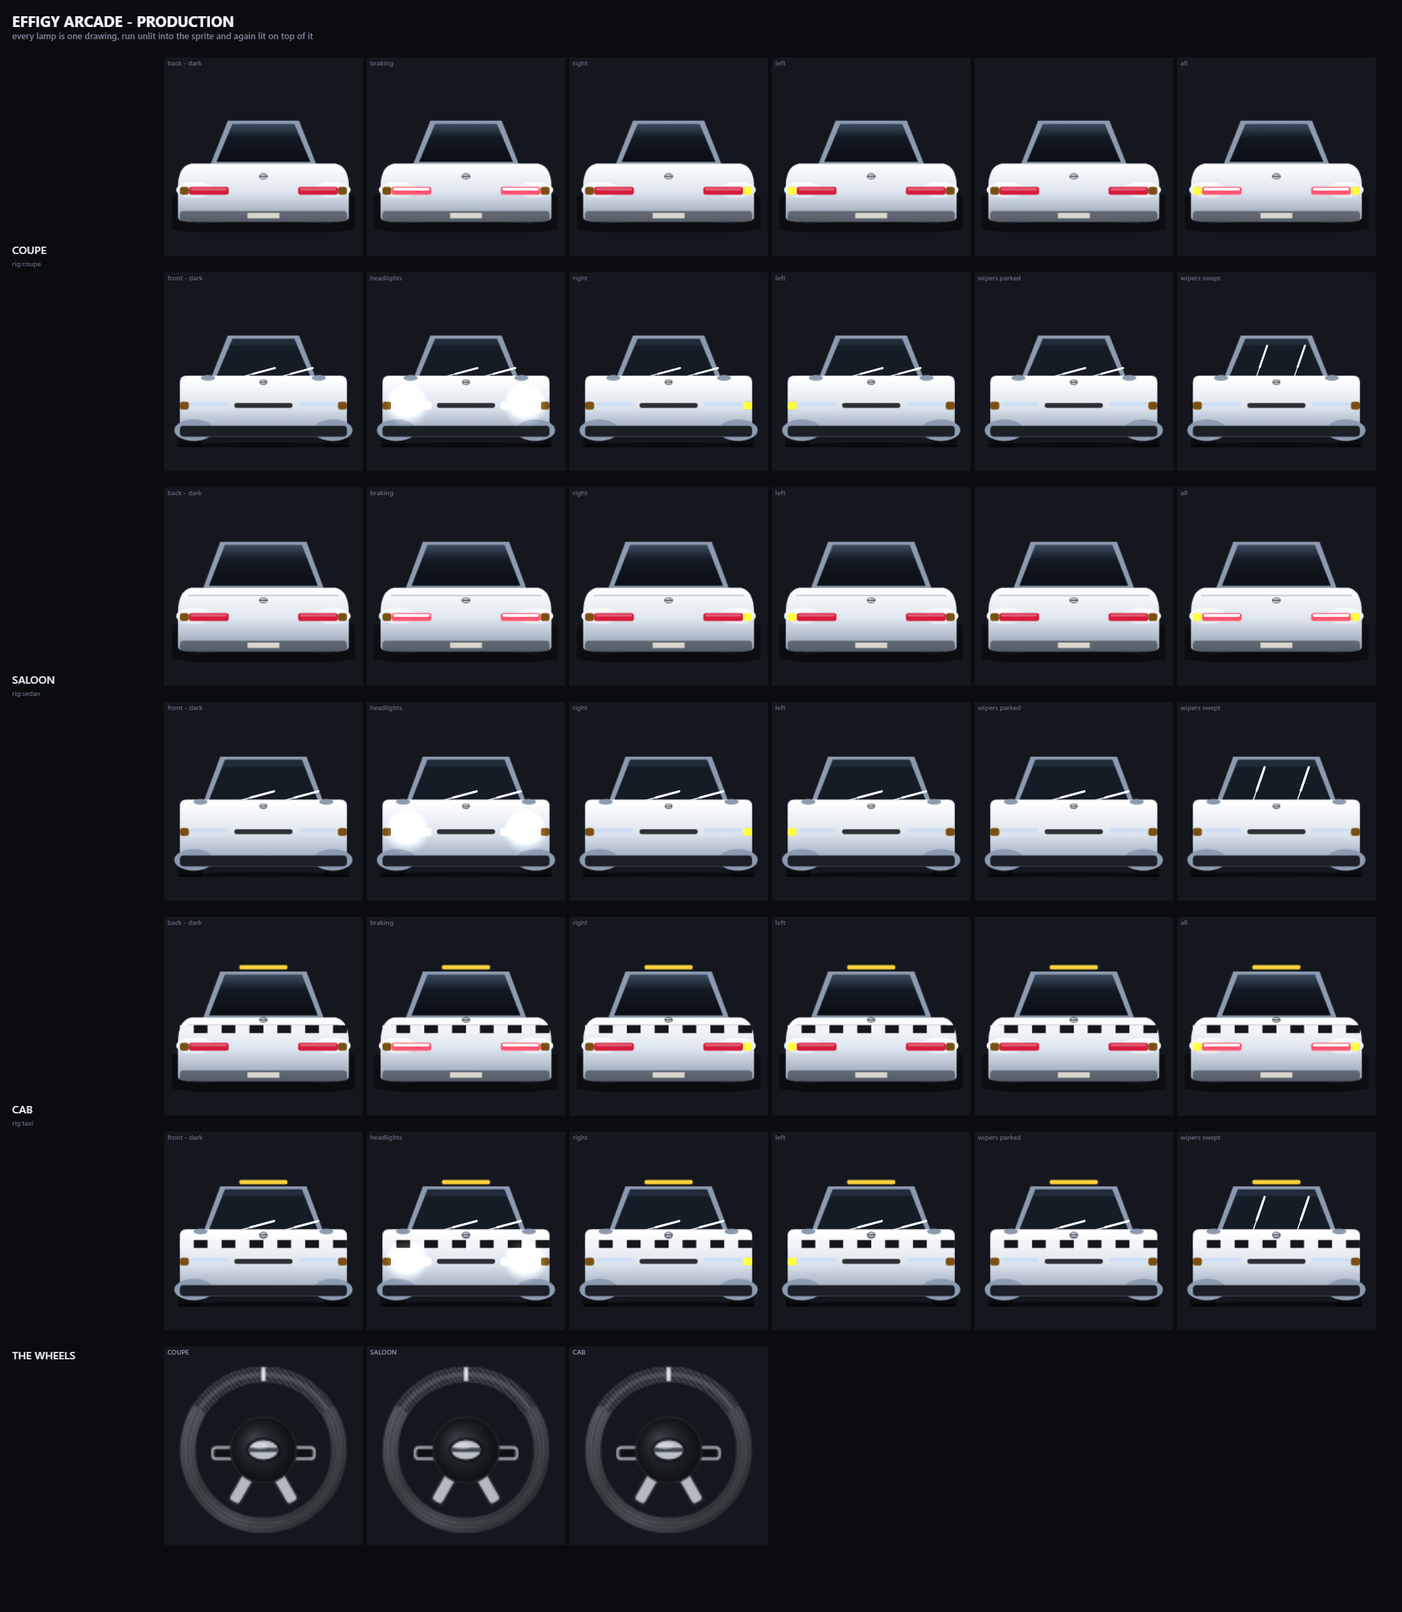
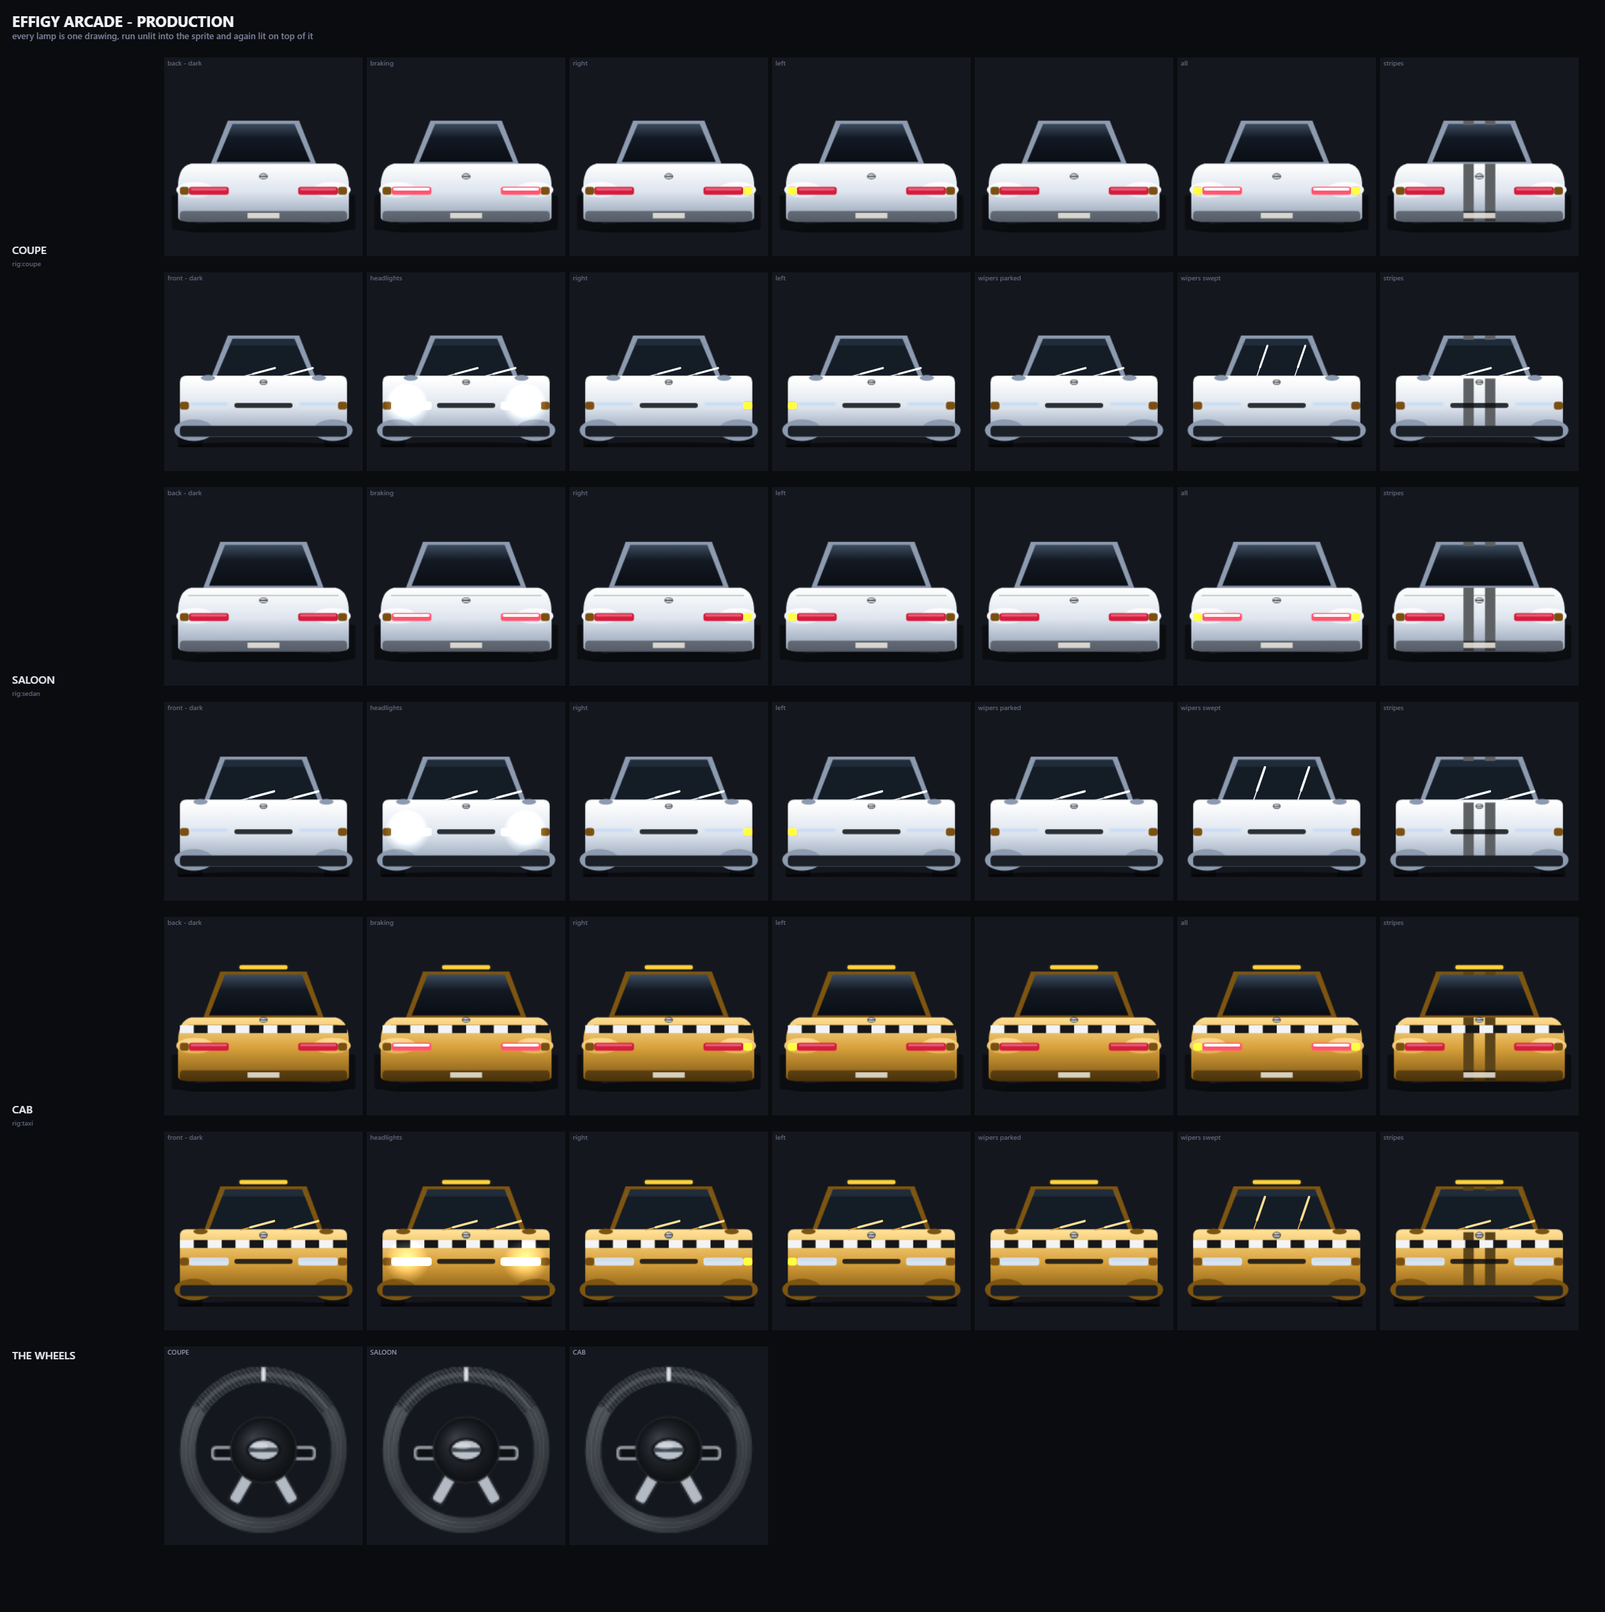
feat: the forced liveries, and a striped frame (RLG-053, v0.9.30)
The fleet sheet built every body in WHITE. That is right for the ten cars that
come in a dozen colours and wrong for the three that do not. The cab came out
white - and a cab is yellow, which is the whole of how a person recognises one -
and both patrol cars came out white when the force runs a black-and-white and a
white-on-black.

`API.fleet` names the paint each body is allowed to wear now, which is the same
restriction `paintChoices()` puts on the garage. A body with two liveries
produces two rows, because a reader groups by `sig` and would otherwise keep the
first and drop the second. The force takes `COP_PAINT`: those are the two paints
an on-duty cruiser is actually built with. Everything else stays white, by the
owner's instruction - a sheet in a dozen colours tells a reader about paint
rather than about lamps.

That split `name` from `key`. The name is what a reader prints, CRUISER . BLACK;
the key is the body it was built from, and it is what the class table and the
steering wheel are looked up with.

Every row also gains a STRIPES frame. Stripes are paint rather than a body, so
any car can wear them except one already wearing a livery of its own - the
formula car and both cruisers, whose cells are empty. `stripesAllowed()` could
not answer this: it reads `optBody`, so it cannot speak for a car it is not
looking at.

Verified: smoke 6/6, lamp-test clean, `pack.sh --check` clean, and the five class
[…]

diff --git a/road.js b/road.js
@@ -80,7 +80,7 @@ const PLAYER_Z = CAM_H*CAM_D;
    worker serves scripts network-first with a cache fallback, so a device can end
    up with a fresh shell beside a cached engine, and the tag says MIXED when it
    does. Bumped with `Arcade.version`, in the same commit, every time. */
-window.ROAD_BUILD = '0.9.29';
+window.ROAD_BUILD = '0.9.30';
 
 const LANE_X = [-0.75,-0.25,0.25,0.75];
 /* ---- ONE LANE, and the unit every lateral move is written in ---------------
@@ -11839,27 +11839,57 @@ requestAnimationFrame(frameLoop);
                   taxi:'production', tuner:'sport', muscle:'sport',
                   PICKUP:'utility', VAN:'utility', LORRY:'utility',
                   pickup:'utility', van:'utility', truck:'utility' };
-    const add = (name, sig, rear, front) =>
-      out.push({ name:name, sig:sig, cls:CLS[name] || 'production', spr:rear, front:front });
+    /* `key` is the body this row was built from, and `name` is what a reader
+       prints. They part company where one body has two liveries: the name says
+       CRUISER . BLACK and the key is still CRUISER, which is what the class
+       table and the steering wheel are looked up with. */
+    const add = (name, sig, rear, front, key, rearS, frontS) =>
+      out.push({ name:name, key:key || name, sig:sig, cls:CLS[key || name] || 'production',
+                 spr:rear, front:front, sprS:rearS || null, frontS:frontS || null });
+    /* ---- A CAR IS DRAWN IN THE PAINT IT IS ALLOWED TO WEAR ----------------
+       Owner, 2026-08-29. Every body on this sheet was built in WHITE, which is
+       correct for the ten cars that come in a dozen colours and wrong for the
+       three that do not. The cab came out white - and a cab is yellow, which is
+       the whole of how you recognise one - and both patrol cars came out white
+       when the force runs a black-and-white and a white-on-black.
+
+       These are the same restrictions `paintChoices()` puts on the garage, read
+       from the one place they are decided rather than copied. A body with more
+       than one entry here gets ONE ROW PER LIVERY, because two liveries of a
+       patrol car is what the owner asked to see and a reader grouping by `sig`
+       would otherwise keep the first and drop the rest.
+
+       The force wears COP_PAINT rather than the garage palette: those are the
+       two paints an on-duty cruiser is actually built with, and its white is a
+       little cooler than the garage's.
+       ------------------------------------------------------------------- */
+    const LIVERY = { CAB:[['GOLD', PAINT.GOLD]],
+                     CRUISER:[['WHITE', COP_PAINT.WHITE], ['BLACK', COP_PAINT.BLACK]],
+                     SUPERCRUISER:[['WHITE', COP_PAINT.WHITE], ['BLACK', COP_PAINT.BLACK]] };
     for(const k in BODY){
       const rs = BODY[k];
+      const liv = LIVERY[k] || [['WHITE', PAINT.WHITE]];
+      for(let li = 0; li < liv.length; li++){
+        const pKey = liv[li][0], pCol = liv[li][1];
       /* the cache only holds bodies a rival can be given, so an unlockable is
          not in it. Build it the way the cache does rather than leaving a hole. */
       /* the LORRY's trailer takes a much darker shade of the chosen colour and
          its CAB takes the colour itself, so the sheet has to build it the way
          `buildSprites` does or it shows a vehicle nobody can drive */
-      const pt0 = PAINT.WHITE;
+      const pt0 = pCol;
       const rigPt = rs.rig === 'truck'
         ? Object.assign({}, pt0, { body:shade(pt0.body,0.34), hi:shade(pt0.hi,0.34),
                                    lo:shade(pt0.lo,0.34),
                                    cab:{ body:pt0.body, hi:pt0.hi, lo:pt0.lo } })
         : pt0;
-      const rear = RIVAL_SP[k+'|WHITE'] || (rs.rig
+      /* the rival cache is keyed by paint, and it only holds the ordinary
+         white one - a livery that is not in it is built here the same way */
+      const rear = (pKey === 'WHITE' && !LIVERY[k] && RIVAL_SP[k+'|WHITE']) || (rs.rig
         ? sprite(220,168, paintRig(rs.rig, Object.assign({ player:true, marque:rs.rear,
             lamp:'#d61b3c', lamp2:'#ff7a86' }, rigPt)))
         : sprite(220,168, paintCar(Object.assign({ cabin:true, spoiler:true, shape:rs,
             bodyKey:k, bodyTop:rs.bodyTop, cabinTop:rs.cabinTop, force:!!rs.force,
-            lamp:'#d61b3c', lamp2:'#ff7a86' }, PAINT.WHITE))));
+            lamp:'#d61b3c', lamp2:'#ff7a86' }, pCol))));
       const front = rs.rig
         ? sprite(220,168, paintRigFront(rs.rig, Object.assign({ player:true, marque:rs.rear,
             lamp:'#d61b3c', lamp2:'#ff7a86' }, rigPt)))
@@ -11869,8 +11899,34 @@ requestAnimationFrame(frameLoop);
            nose on five cars. The size is the one the garage uses, 230x215,
            because a front is taller than a back. */
         : sprite(230,215, paintFront(Object.assign({ bodyType:k, marque:rs.rear,
-            player:true, lamp:'#d61b3c', lamp2:'#ff7a86' }, PAINT.WHITE)));
-      add(k, rs.rig ? 'rig:'+rs.rig : 'car:'+k, rear, front);
+            player:true, lamp:'#d61b3c', lamp2:'#ff7a86' }, pCol)));
+      /* ---- STRIPES ARE PAINT, AND NOT EVERY CAR TAKES THEM --------------
+         `stripesAllowed()` is the garage's rule and it reads `optBody`, so it
+         cannot answer for a car it is not looking at. The rule itself is short
+         and it is stated here rather than duplicated by hand: a FORMULA car and
+         a patrol car already wear a livery, and a second set of markings over
+         the top of one is not a thing either of them does.
+
+         A striped frame is built only where it is allowed. Everywhere else the
+         sheet shows an empty cell, which is the answer to "does this car take
+         stripes" rather than the absence of one.
+         ---------------------------------------------------------------- */
+      const striped = k !== 'FORMULA' && k !== 'CRUISER' && k !== 'SUPERCRUISER';
+      const rearS = !striped ? null : (rs.rig
+        ? sprite(220,168, paintRig(rs.rig, Object.assign({ player:true, marque:rs.rear,
+            stripes:true, lamp:'#d61b3c', lamp2:'#ff7a86' }, rigPt)))
+        : sprite(220,168, paintCar(Object.assign({ cabin:true, spoiler:true, shape:rs,
+            bodyKey:k, bodyTop:rs.bodyTop, cabinTop:rs.cabinTop, force:!!rs.force,
+            stripes:true, lamp:'#d61b3c', lamp2:'#ff7a86' }, pCol))));
+      const frontS = !striped ? null : (rs.rig
+        ? sprite(220,168, paintRigFront(rs.rig, Object.assign({ player:true, marque:rs.rear,
+            stripes:true, lamp:'#d61b3c', lamp2:'#ff7a86' }, rigPt)))
+        : sprite(230,215, paintFront(Object.assign({ bodyType:k, marque:rs.rear,
+            player:true, stripes:true, lamp:'#d61b3c', lamp2:'#ff7a86' }, pCol))));
+      const base = rs.rig ? 'rig:'+rs.rig : 'car:'+k;
+      add(liv.length > 1 ? k + ' \u00B7 ' + pKey : k,
+          li ? base + '|' + pKey : base, rear, front, k, rearS, frontS);
+      }
     }
     const traf = { sedan:SP.sedan, sedan2:SP.sedan2, coupe:SP.coupe, van:SP.van,
                    pickup:SP.pickup, truck:SP.truck, taxi:(TRAFFIC_SP.taxi||[])[0],

diff --git a/arcade.js b/arcade.js
@@ -44,7 +44,7 @@ var A = window.Arcade = window.Arcade || {};
    over would have said "nearly done" about work that has barely started. The
    version tracks THIS product. The maturity of the engine underneath it is
    recorded in the git history, which came across whole. */
-A.version = '0.9.29';
+A.version = '0.9.30';
 
 /* ---- WHICH BUILD AM I PLAYING? -------------------------------------------
    Asked for by the owner, 2026-08-29, and it is a testing tool rather than

diff --git a/tools/fleet-sheet.py b/tools/fleet-sheet.py
@@ -9,8 +9,12 @@ numbers; this is the version you can look at.
 Each vehicle gets TWO rows, back then front, and the sheet ends with the steering wheels - one per
 car, which nothing outside the cockpit has ever shown side by side.
 
-  back    dark, braking, indicating right, indicating left, bar
-  front   dark, headlights, indicating right, indicating left, wipers parked and at full sweep
+  back    dark, braking, indicating right, indicating left, bar, all, striped
+  front   dark, headlights, indicating right, indicating left, wipers parked, wipers swept, striped
+
+A car is drawn in the paint it is ALLOWED to wear, which is white for almost all of them: a cab is
+yellow, and each patrol car appears twice, once in each of the force's two liveries. The striped cell
+is empty where a car already wears a livery of its own.
 
 ONE ROW PER VEHICLE, NOT PER LIVERY. The garage car and the traffic car are the same painter with
 different paint - there is no garage version of anything - so rows are grouped by painter and each
@@ -66,7 +70,7 @@ SHEET = r"""(cls) => {
   }
 
   const CELL = 300, PAD = 18, LABEL = 240;
-  const cols = 6;
+  const cols = 7;
   const W = LABEL + cols*CELL + PAD*2;
   const H = PAD*3 + 52 + rows.length*(CELL*2 + PAD*2) + CELL + PAD*4;
   const c = document.createElement('canvas');
@@ -140,6 +144,10 @@ SHEET = r"""(cls) => {
     cell(back, LABEL + 3*CELL, y, ['turn.l'], null, 'left');
     cell(back, LABEL + 4*CELL, y, bar, null, bar.length ? 'bar' : '');
     cell(back, LABEL + 5*CELL, y, Object.keys(bL), null, 'all');
+    /* stripes are paint rather than a body, and a car already wearing a livery
+       does not take them - so this cell is empty for the formula car and for
+       both patrol cars, which is the answer rather than a missing frame */
+    cell(r.sprS, LABEL + 6*CELL, y, [], null, 'stripes');
 
     const y2 = y + CELL + PAD;
     cell(front, LABEL + 0*CELL, y2, [], 0, 'front - dark');
@@ -148,6 +156,7 @@ SHEET = r"""(cls) => {
     cell(front, LABEL + 3*CELL, y2, ['turn.l'], 0, 'left');
     cell(front, LABEL + 4*CELL, y2, fbar, 0, 'wipers parked');
     cell(front, LABEL + 5*CELL, y2, fbar, 1, 'wipers swept');
+    cell(r.frontS, LABEL + 6*CELL, y2, [], 0, 'stripes');
 
     y += CELL*2 + PAD*2;
   }
@@ -157,8 +166,12 @@ SHEET = r"""(cls) => {
   g.font = '600 16px system-ui, sans-serif';
   g.fillText('THE WHEELS', PAD, y + 22);
   let wx = LABEL, wy = y;
+  const shown = {};
   for (const v of rows) {
-    const wheel = R.wheelOf(v.name);
+    /* two liveries of one patrol car are one car, and it has one wheel */
+    if (shown[v.key || v.name]) continue;
+    shown[v.key || v.name] = 1;
+    const wheel = R.wheelOf(v.key || v.name);
     if (!wheel) continue;
     g.fillStyle = '#15171e';
     g.fillRect(wx + 3, wy + 3, CELL - 6, CELL - 6);
@@ -167,7 +180,7 @@ SHEET = r"""(cls) => {
                 wheel.width*s, wheel.height*s);
     g.fillStyle = '#8d93a8';
     g.font = '500 10px system-ui, sans-serif';
-    g.fillText(v.name, wx + 8, wy + 15);
+    g.fillText(v.key || v.name, wx + 8, wy + 15);
     wx += CELL;
     if (wx + CELL > W - PAD) { wx = LABEL; wy += CELL + PAD; }
   }

diff --git a/docs/fragments/THR-001.md b/docs/fragments/THR-001.md
@@ -3,8 +3,8 @@ id                = "THR-001"
 kind              = "thread"
 status            = "current"
 writer            = "EffigyMedia"
-focus             = "Effigy Arcade at v0.9.24 - every rear sprite in the fleet declares its lamps, and the fleet sheet is in docs/fleet.png"
-next_action       = "RLG-052: a traffic car signals for a couple of seconds BEFORE it merges, and one in four or five does not. Both of its blockers are gone - the lamps exist on every vehicle and RLG-041 is closed - and c.blink is already set on a merge decision and read by nothing"
+focus             = "Effigy Arcade at v0.9.29 - the fleet is finished front and back. Every vehicle declares its lamps, every front is drawn and wired, and every one of the 26 vehicles now has wipers. Five class sheets in docs/fleet-{super,sport,police,production,utility}.png, regenerated by tools/fleet-sheet.py. The owner has called the fleet basically perfect"
+next_action       = "RLG-052: a traffic car signals for a couple of seconds BEFORE it merges, and one in four or five does not. Both blockers are gone - the lamps exist on every vehicle front and back, and RLG-041 is closed. c.blink is already set on a merge decision and read by nothing"
 next_origin       = "asked"
 created           = "2026-08-28T09:15:21-04:00"
 created_precision = "second"
@@ -16,9 +16,9 @@ see_also          = []
 
 ### THR-001 — thread: EffigyMedia
 
-**▶ Focus** — Effigy Arcade at v0.9.24 - every rear sprite in the fleet declares its lamps, and the fleet sheet is in docs/fleet.png
+**▶ Focus** — Effigy Arcade at v0.9.29 - the fleet is finished front and back. Every vehicle declares its lamps, every front is drawn and wired, and every one of the 26 vehicles now has wipers. Five class sheets in docs/fleet-{super,sport,police,production,utility}.png, regenerated by tools/fleet-sheet.py. The owner has called the fleet basically perfect
 
-**▶ Next action** — **RLG-052: a traffic car signals for a couple of seconds BEFORE it merges, and one in four or five does not. Both of its blockers are gone - the lamps exist on every vehicle and RLG-041 is closed - and c.blink is already set on a merge decision and read by nothing**
+**▶ Next action** — **RLG-052: a traffic car signals for a couple of seconds BEFORE it merges, and one in four or five does not. Both blockers are gone - the lamps exist on every vehicle front and back, and RLG-041 is closed. c.blink is already set on a merge decision and read by nothing**
 - Origin: `asked` — the agent asked and was told ([[RLG-098]] via §4 Q10: asking is not inference)
 
 **Constraints in force**
@@ -68,5 +68,6 @@ see_also          = []
 - NOT CONVERTED to RLG-053's lamp declaration: the FRONT sprites (headlights) and the rear-view. Every REAR sprite in the game is done - 84 lamps across 26 sprites, 15 distinct painters
 - QUEUED, not started (RLG-054): supercars except the FORMULA appear as VERY VERY RARE traffic in muted colours, inheriting the raised Speeder chance. It cannot be built before the three personalities are, because 'inherit the increased percentage' is a sentence about a system that does not exist yet. The trap: a supercar in traffic must not read as a rival - only its COLOUR and its BEHAVIOUR say so
 - WHEN A PICTURE IS THE DELIVERABLE, the version shown in chat and the version saved to disk must be the same render. The fleet sheet was shown before a grouping fix and saved after it, and the owner reasonably reported duplicates that were no longer there
+- THE WIPERS ARE WIRED BUT NOTHING SWEEPS THEM. parts.wipers(g, t) is registered on all 26 vehicles, 0 parked and 1 at full extension, and its only caller is tools/fleet-sheet.py. RLG-060 - lightning, thunder, rain on the lens - is what should drive the sweep. c.overWipers must be drawn AFTER the blades or the muscle car sweeps them across the front of its blower
 
-*Maintained continuously — never written at the threshold ([[RLG-089]]). Last touched 2026-08-29T07:45:37-04:00 by hand.*
+*Maintained continuously — never written at the threshold ([[RLG-089]]). Last touched 2026-08-29T09:02:20-04:00 by hand.*

diff --git a/docs/fragments/RLG-053.md b/docs/fragments/RLG-053.md
@@ -403,3 +403,24 @@ The general lesson is about early returns in a painter. A function that ends in 
 some bodies leave before reaching it, silently omits that work for exactly those bodies. The wipers
 were visible on the sheet, which is how this was found at all; anything registered the same way and
 never drawn would still be missing.
+- **RULED 2026-08-29T09:07:18-04:00** — The sheet built every body in WHITE. That is correct for the ten cars that come in a dozen colours
+and wrong for the three that do not: the cab came out white, and a cab is yellow - it is the whole of
+how a person recognises one - and both patrol cars came out white when the force runs a
+black-and-white and a white-on-black.
+
+`API.fleet` now names the paint each body is allowed to wear, which is the restriction
+`paintChoices()` already puts on the garage. A body with two liveries produces TWO ROWS, because a
+reader groups by `sig` and would otherwise keep the first and drop the second. The force takes
+`COP_PAINT` rather than the garage palette: those are the two paints an on-duty cruiser is actually
+built with. Everything else stays white, by the owner's instruction - a sheet in a dozen colours
+tells a reader about paint rather than about lamps.
+
+That split `name` from `key`. The name is what a reader prints, CRUISER . BLACK; the key is the body
+it was built from, CRUISER, and it is what the class table and the steering wheel are looked up with.
+Without it a livery row fell to the default class and drew no wheel.
+
+Each row also gains a STRIPES frame. Stripes are paint rather than a body, so any car can wear them -
+except a car already wearing a livery of its own, which is the formula car and both cruisers. The
+cell is empty for those three, and an empty cell is the answer rather than a missing frame.
+`stripesAllowed()` could not be called for this: it reads `optBody`, so it cannot answer for a car it
+is not looking at.

diff --git a/docs/core/changelog.md b/docs/core/changelog.md
@@ -14,6 +14,17 @@ barely started, and 0.9.x would have claimed otherwise.
 
 ---
 
+<a id="v0-9-30"></a>
+## [0.9.30] - 2026-08-29
+- Changed: **each vehicle is drawn in the paint it is allowed to wear.** The fleet sheet built every
+  body in white, so the cab was white and both patrol cars were white. The cab takes its forced
+  yellow, and each patrol car appears twice - once in each of the force's two liveries, built from
+  `COP_PAINT` rather than the garage palette. Everything else stays white
+  ([RLG-053](../fragments/RLG-053.md)).
+- Added: **a stripes frame on every row.** Stripes are paint rather than a body, so any car can wear
+  them except one already wearing a livery of its own - the formula car and both cruisers, whose
+  cells are empty ([RLG-053](../fragments/RLG-053.md)).
+
 <a id="v0-9-29"></a>
 ## [0.9.29] - 2026-08-29
 - Fixed: **the utility vehicles have windscreen wipers.** The pickup, the van and the lorry were the
